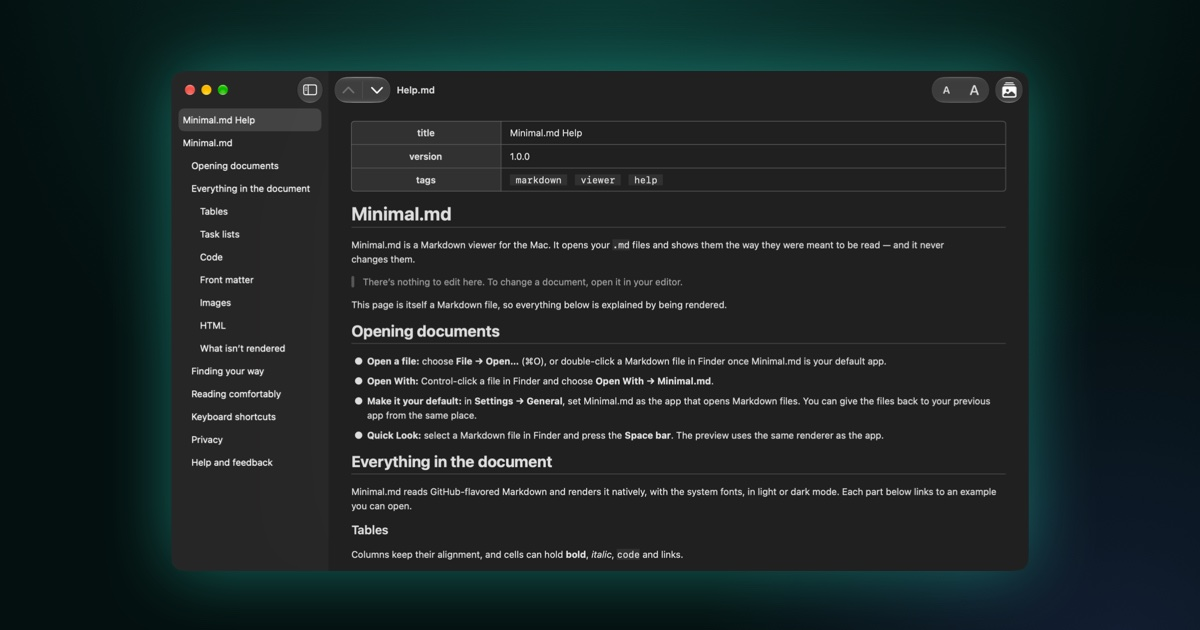
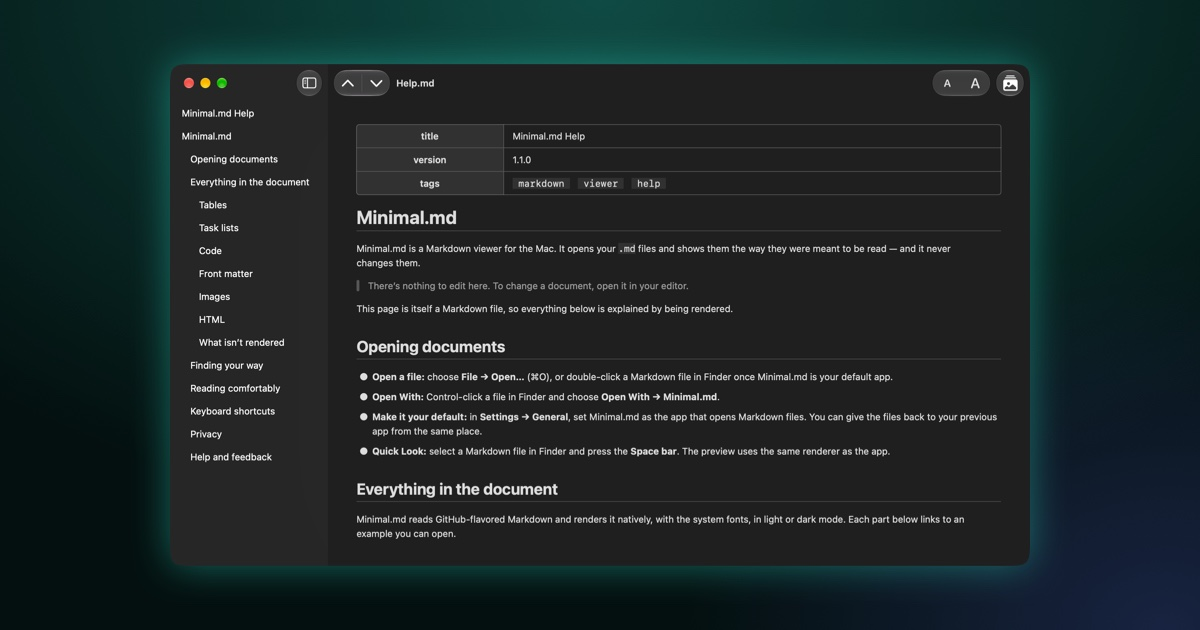
[RF] Minimal.md 1.1 released (#26), squashed feature/release-1.1
* docs(md): require macOS 15.6 Sequoia and show the 1.1 document shot
* docs(md): name AI agents in the hero, trim the Features heading and subtitle
* docs(md): add 1.1.0 to the changelog and link it
* docs(md): redraw the link preview from the 1.1 shot
* docs(md): date the 1.1.0 changelog entry

diff --git a/docs/md/index.html b/docs/md/index.html
@@ -16,7 +16,7 @@
   <meta property="og:image:alt" content="A Markdown document open in Minimal.md, with its table of contents in the sidebar.">
   <meta name="twitter:card" content="summary_large_image">
   <link rel="canonical" href="https://skemenov.com/md/">
-  <script type="application/ld+json">{"@context": "https://schema.org", "@type": "SoftwareApplication", "name": "Minimal.md", "description": "A Markdown viewer and Quick Look extension for the Mac, for your notes and the plans and reports your AI agents write.", "operatingSystem": "macOS 26 Tahoe or later", "applicationCategory": "ProductivityApplication", "offers": {"@type": "Offer", "price": "0", "priceCurrency": "USD"}, "url": "https://skemenov.com/md/", "downloadUrl": "https://apps.apple.com/app/id6808280979", "image": "https://skemenov.com/assets/img/md/icon-light-512.png", "author": {"@type": "Person", "name": "Sergey Kemenov", "url": "https://skemenov.com/", "jobTitle": "iOS and macOS developer", "sameAs": ["https://github.com/SKemenov", "https://t.me/skemenov"]}}</script>
+  <script type="application/ld+json">{"@context": "https://schema.org", "@type": "SoftwareApplication", "name": "Minimal.md", "description": "A Markdown viewer and Quick Look extension for the Mac, for your notes and the plans and reports your AI agents write.", "operatingSystem": "macOS 15.6 Sequoia or later", "applicationCategory": "ProductivityApplication", "offers": {"@type": "Offer", "price": "0", "priceCurrency": "USD"}, "url": "https://skemenov.com/md/", "downloadUrl": "https://apps.apple.com/app/id6808280979", "image": "https://skemenov.com/assets/img/md/icon-light-512.png", "author": {"@type": "Person", "name": "Sergey Kemenov", "url": "https://skemenov.com/", "jobTitle": "iOS and macOS developer", "sameAs": ["https://github.com/SKemenov", "https://t.me/skemenov"]}}</script>
   <link rel="stylesheet" href="../assets/css/style.css">
   <link rel="icon" href="../assets/img/md/icon-light-256.png">
   <link rel="apple-touch-icon" href="../assets/img/md/icon-light-256.png">
@@ -40,22 +40,22 @@
       <img class="app-icon" src="../assets/img/md/icon-light-256.png" width="96" height="96" alt="Minimal.md app icon">
       <p class="eyebrow">Markdown viewer &amp; Quick Look</p>
       <h1>Open a Markdown file and just read it.</h1>
-      <p class="sub">Minimal.md opens your .md files and shows them the way they were meant to be read — and it never changes them.</p>
+      <p class="sub">Minimal.md opens the .md files you and your AI agents write, and shows them the way they were meant to be read — and it never changes them.</p>
       <div class="ctas">
         <a class="store-badge" href="https://apps.apple.com/app/id6808280979"><img src="../assets/img/md/mac-app-store-badge.svg" width="156" height="40" alt="Download on the Mac App Store"></a>
       </div>
-      <p class="meta">Free · Requires macOS 26 Tahoe or later · Supported&nbsp;<a href="markdown/">Markdown</a></p>
+      <p class="meta">Free · Requires macOS 15.6 Sequoia or later · Supported&nbsp;<a href="markdown/">Markdown</a></p>
     </div>
 
     <figure class="shot hero-shot">
-      <img src="../assets/img/md/1-document.png" width="1600" height="933" alt="A Markdown document open in Minimal.md, with its table of contents in the sidebar and front matter shown as a table.">
+      <img src="../assets/img/md/2-document.png" width="1600" height="933" alt="A Markdown document open in Minimal.md, with its table of contents in the sidebar and front matter shown as a table.">
     </figure>
 
     <section>
       <div class="section-head">
         <p class="eyebrow">Features</p>
-        <h2>No editor, no sync, no account.<br>Just you and your AI agents.</h2>
-        <p class="sub">The document — your notes, or the plans and reports your AI agents write — rendered natively with the system fonts, in light or dark mode.</p>
+        <h2>No editor, no sync, no account.</h2>
+        <p class="sub">The document rendered natively with the system fonts, in light or dark mode.</p>
       </div>
       <div class="grid pairs">
         <div class="card">
@@ -208,6 +208,11 @@
         <li>Russian</li>
         <li>Spanish</li>
       </ul>
+    </section>
+
+    <section class="beta-line">
+      <p class="eyebrow">What’s new</p>
+      <p>See what changed in each version in the <a href="changes/">changelog</a>.</p>
     </section>
 
     <section class="beta-line">

diff --git a/docs/md/support/index.html b/docs/md/support/index.html
@@ -48,7 +48,7 @@
     <h2>Frequently asked questions</h2>
 
     <h3>Where do I get Minimal.md?</h3>
-    <p>Minimal.md is free <a href="https://apps.apple.com/app/id6808280979">on the Mac App Store</a> and requires macOS 26 Tahoe or later.</p>
+    <p>Minimal.md is free <a href="https://apps.apple.com/app/id6808280979">on the Mac App Store</a> and requires macOS 15.6 Sequoia or later.</p>
 
     <h3>Why don't the images in my document show?</h3>
     <p>macOS lets Minimal.md read only the files you open. For images stored next to your document, a bar appears at the bottom of the window — choose the folder there to grant access. You can review and revoke access at any time in Settings → Privacy. Images on the web are never loaded: Minimal.md makes no network connections.</p>
@@ -71,8 +71,8 @@
     <h3>Which languages does Minimal.md support?</h3>
     <p>English, French, German, Italian, Russian and Spanish, following the language set for your Mac. Spotted a translation mistake, or want Minimal.md in your language? <a href="https://github.com/SKemenov/skemenov.github.io/issues/new?template=translation.md">Let us know</a>.</p>
 
-    <h3>Can I try new versions early?</h3>
-    <p>Yes — join the public beta on TestFlight. <a href="../beta/">The beta page</a> shows how, and what to test in the current build.</p>
+    <h3>What changed in the latest version?</h3>
+    <p>Every release and its changes are listed in the <a href="../changes/">changelog</a>, newest first.</p>
   </main>
 
   <footer>

diff --git a/docs/md/changes/index.md b/docs/md/changes/index.md
@@ -13,6 +13,28 @@ Changes
 Every release and what changed in it, newest first.
 {: .lead}
 
+## 1.1.0
+
+October 13, 2026
+{: .meta}
+
+NEW
+{: .eyebrow}
+
+- Plans and reports from AI agents update live as they’re written
+- Now supports macOS 15.6 Sequoia and later
+- New languages: Spanish (Latin America) and French (Canada)
+
+FIXED
+{: .eyebrow}
+
+- More room above headings makes long documents easier to read and navigate
+- New windows fit the document’s height
+- Quick Look shows local images right after installing
+- VoiceOver reads Settings more clearly
+- Menu titles are capitalized correctly in every language
+- The toolbar and Settings look right on macOS 15
+
 ## 1.0.0
 
 October 2, 2026
